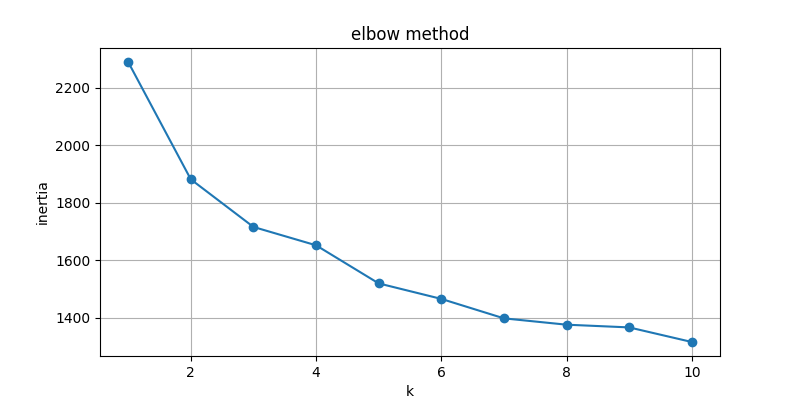
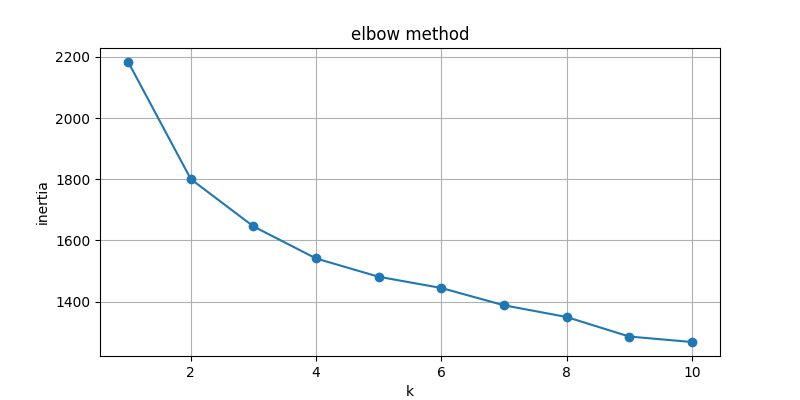
nice

diff --git a/data_preprocessing.py b/data_preprocessing.py
@@ -5,19 +5,19 @@ import seaborn as sns
 from sklearn.preprocessing import StandardScaler
 
 def load_and_explore_data(filepath):
-    # load the dataset using pandas
+    # load the dataset
     df = pd.read_csv(filepath)
     print("data loaded.")
 
-    # print basic info about the data
-    print("shape of data:", df.shape)
+    # basic info
+    print("shape:", df.shape)
     print("first 5 rows:")
     print(df.head())
-    print("data types:")
+    print("types:")
     print(df.dtypes)
 
-    # remove the target column because this is unsupervised learning
-    # usually the target is called 'target' or 'output'
+    # remove target/output column (step 3)
+    # checking for common target names
     if 'target' in df.columns:
         df = df.drop(columns=['target'])
         print("removed target column.")
@@ -25,76 +25,85 @@ def load_and_explore_data(filepath):
         df = df.drop(columns=['output'])
         print("removed output column.")
             
-    # calculate basic stats
-    print("basic statistics:")
-    print(df.describe())
+    # stats (step 4)
+    # showing only mean, min, std, max
+    print("stats:")
+    print(df.describe().loc[['mean', 'min', 'std', 'max']])
 
-    # visualization part
+    # visualization (step 5)
     print("making plots...")
     
-    # histogram
+    # histograms
     df.hist(figsize=(10, 8), bins=15)
     plt.title("feature distributions")
     plt.savefig('1_histograms.png')
     plt.close()
-    print("saved histogram.")
-
-    # box plots for outliers
+    
+    # box plots
     plt.figure(figsize=(12, 5))
     sns.boxplot(data=df)
     plt.xticks(rotation=45)
     plt.title("box plots")
     plt.savefig('2_boxplots.png')
     plt.close()
-    print("saved boxplots.")
 
     # scatter plot
-    # plotting age vs max heart rate
     plt.figure(figsize=(8, 5))
-    sns.scatterplot(x='age', y='thalach', data=df)
-    plt.title("age vs max heart rate")
-    plt.savefig('3_scatter.png')
-    plt.close()
-    print("saved scatter plot.")
+    if 'age' in df.columns and 'thalach' in df.columns:
+        sns.scatterplot(x='age', y='thalach', data=df)
+        plt.title("age vs max heart rate")
+        plt.savefig('3_scatter.png')
+        plt.close()
     
+    print("saved all plots.")
     return df
 
 def preprocess_data(df):
     print("starting preprocessing...")
     
-    # remove rows with missing values
-    if df.isnull().sum().sum() > 0:
+    # STEP 6: Identify and remove missing values
+    missing_count = df.isnull().sum().sum()
+    if missing_count > 0:
+        print(f"found {missing_count} missing values. removing them...")
         df = df.dropna()
-        print("dropped missing values.")
+    else:
+        print("step 6: no missing values found.")
         
-    # remove id column if it exists
+    # STEP 7: Remove irrelevant columns
     if 'id' in df.columns:
         df = df.drop(columns=['id'])
+        print("step 7: removed 'id' column.")
+    else:
+        print("step 7: no irrelevant 'id' column found.")
         
-    # remove duplicates
-    if df.duplicated().sum() > 0:
+    # STEP 8: Remove duplicates
+    dupes = df.duplicated().sum()
+    if dupes > 0:
+        print(f"found {dupes} duplicates. removing...")
         df = df.drop_duplicates()
-        print("dropped duplicates.")
+    else:
+        print("step 8: no duplicates found.")
 
-    # one hot encoding for categorical columns
-    # finding columns with less than 5 unique values to encode
-    cat_cols = []
-    num_cols = []
+    # STEP 9: One Hot Encoding
+    # MANUALLY DEFINING LISTS TO BE EXACT
+    # categorical: cp, restecg, slope, thal, ca (as you requested)
+    # plus sex, fbs, exang because they are binary categories
+    cat_cols = ['sex', 'cp', 'fbs', 'restecg', 'exang', 'slope', 'thal', 'ca']
     
-    for col in df.columns:
-        if df[col].nunique() < 5:
-            cat_cols.append(col)
-        else:
-            num_cols.append(col)
+    # numerical: the rest (continuous numbers)
+    num_cols = ['age', 'trestbps', 'chol', 'thalach', 'oldpeak']
     
     print("categorical columns:", cat_cols)
     print("numerical columns:", num_cols)
     
+    # perform one hot encoding
     df_encoded = pd.get_dummies(df, columns=cat_cols)
     
-    # scaling the numerical features
+    # STEP 11: Normalization
     scaler = StandardScaler()
     df_final = df_encoded.copy()
+    
+    # scale only the numerical columns
     df_final[num_cols] = scaler.fit_transform(df_encoded[num_cols])
     
     print("preprocessing done.")

diff --git a/evaluation.py b/evaluation.py
@@ -4,7 +4,6 @@ from sklearn.decomposition import PCA
 from sklearn.cluster import KMeans
 
 def evaluate_clustering(model, x_train, k):
-    # calculate metrics
     print(f"evaluating for k={k}...")
     labels = model.labels_
     
@@ -12,36 +11,44 @@ def evaluate_clustering(model, x_train, k):
     sil = silhouette_score(x_train, labels)
     db = davies_bouldin_score(x_train, labels)
     
-    print(f"inertia: {inertia}")
-    print(f"silhouette score: {sil}")
-    print(f"davies bouldin index: {db}")
+    print(f"inertia: {inertia:.2f}")
+    print(f"silhouette score: {sil:.4f}")
+    print(f"davies bouldin index: {db:.4f}")
 
 def compare_k_values(x_train):
-    # compare different k values
     print("comparing k values...")
     print("k   inertia   silhouette   db_index")
     
+    # comparing k from 2 to 5
     for k in [2, 3, 4, 5]:
-        km = KMeans(n_clusters=k, random_state=42).fit(x_train)
+        km = KMeans(n_clusters=k, random_state=42)
+        km.fit(x_train)
         labels = km.labels_
         sil = silhouette_score(x_train, labels)
         db = davies_bouldin_score(x_train, labels)
-        # simple print format
         print(f"{k}   {km.inertia_:.2f}   {sil:.3f}   {db:.3f}")
 
 def visualize_results(model, x_train):
-    # use pca to make it 2d for plotting
     print("visualizing clusters...")
+    
+    # using pca to reduce to 2 dimensions for plotting
     pca = PCA(n_components=2)
-    x_pca = pca.fit_transform(x_train)
+    
+    # FIX: use .values to convert to simple array so we don't get the warning
+    x_pca = pca.fit_transform(x_train.values)
     centers_pca = pca.transform(model.cluster_centers_)
     
     plt.figure(figsize=(10, 6))
-    # plot the points
+    
+    # plot the patients
     plt.scatter(x_pca[:, 0], x_pca[:, 1], c=model.labels_, cmap='viridis', alpha=0.6)
+    
     # plot the centers
-    plt.scatter(centers_pca[:, 0], centers_pca[:, 1], c='red', s=200, marker='X')
+    plt.scatter(centers_pca[:, 0], centers_pca[:, 1], c='red', s=200, marker='X', label='centroids')
+    
     plt.title("cluster visualization (pca)")
+    plt.legend()
     plt.savefig('5_cluster_pca.png')
     plt.close()
+    
     print("saved cluster plot.")

diff --git a/main.py b/main.py
@@ -1,4 +1,3 @@
-# importing the other files
 import data_preprocessing as dp
 import model_training as mt
 import evaluation as ev
@@ -17,6 +16,9 @@ def main():
     
     # find best k
     k = mt.find_optimal_k(x_train)
+    
+    # wich K we have choosed
+    print(f"\nwe choose K as : {k} <<<\n")
     
     # train the model
     model = mt.train_model(x_train, k)
